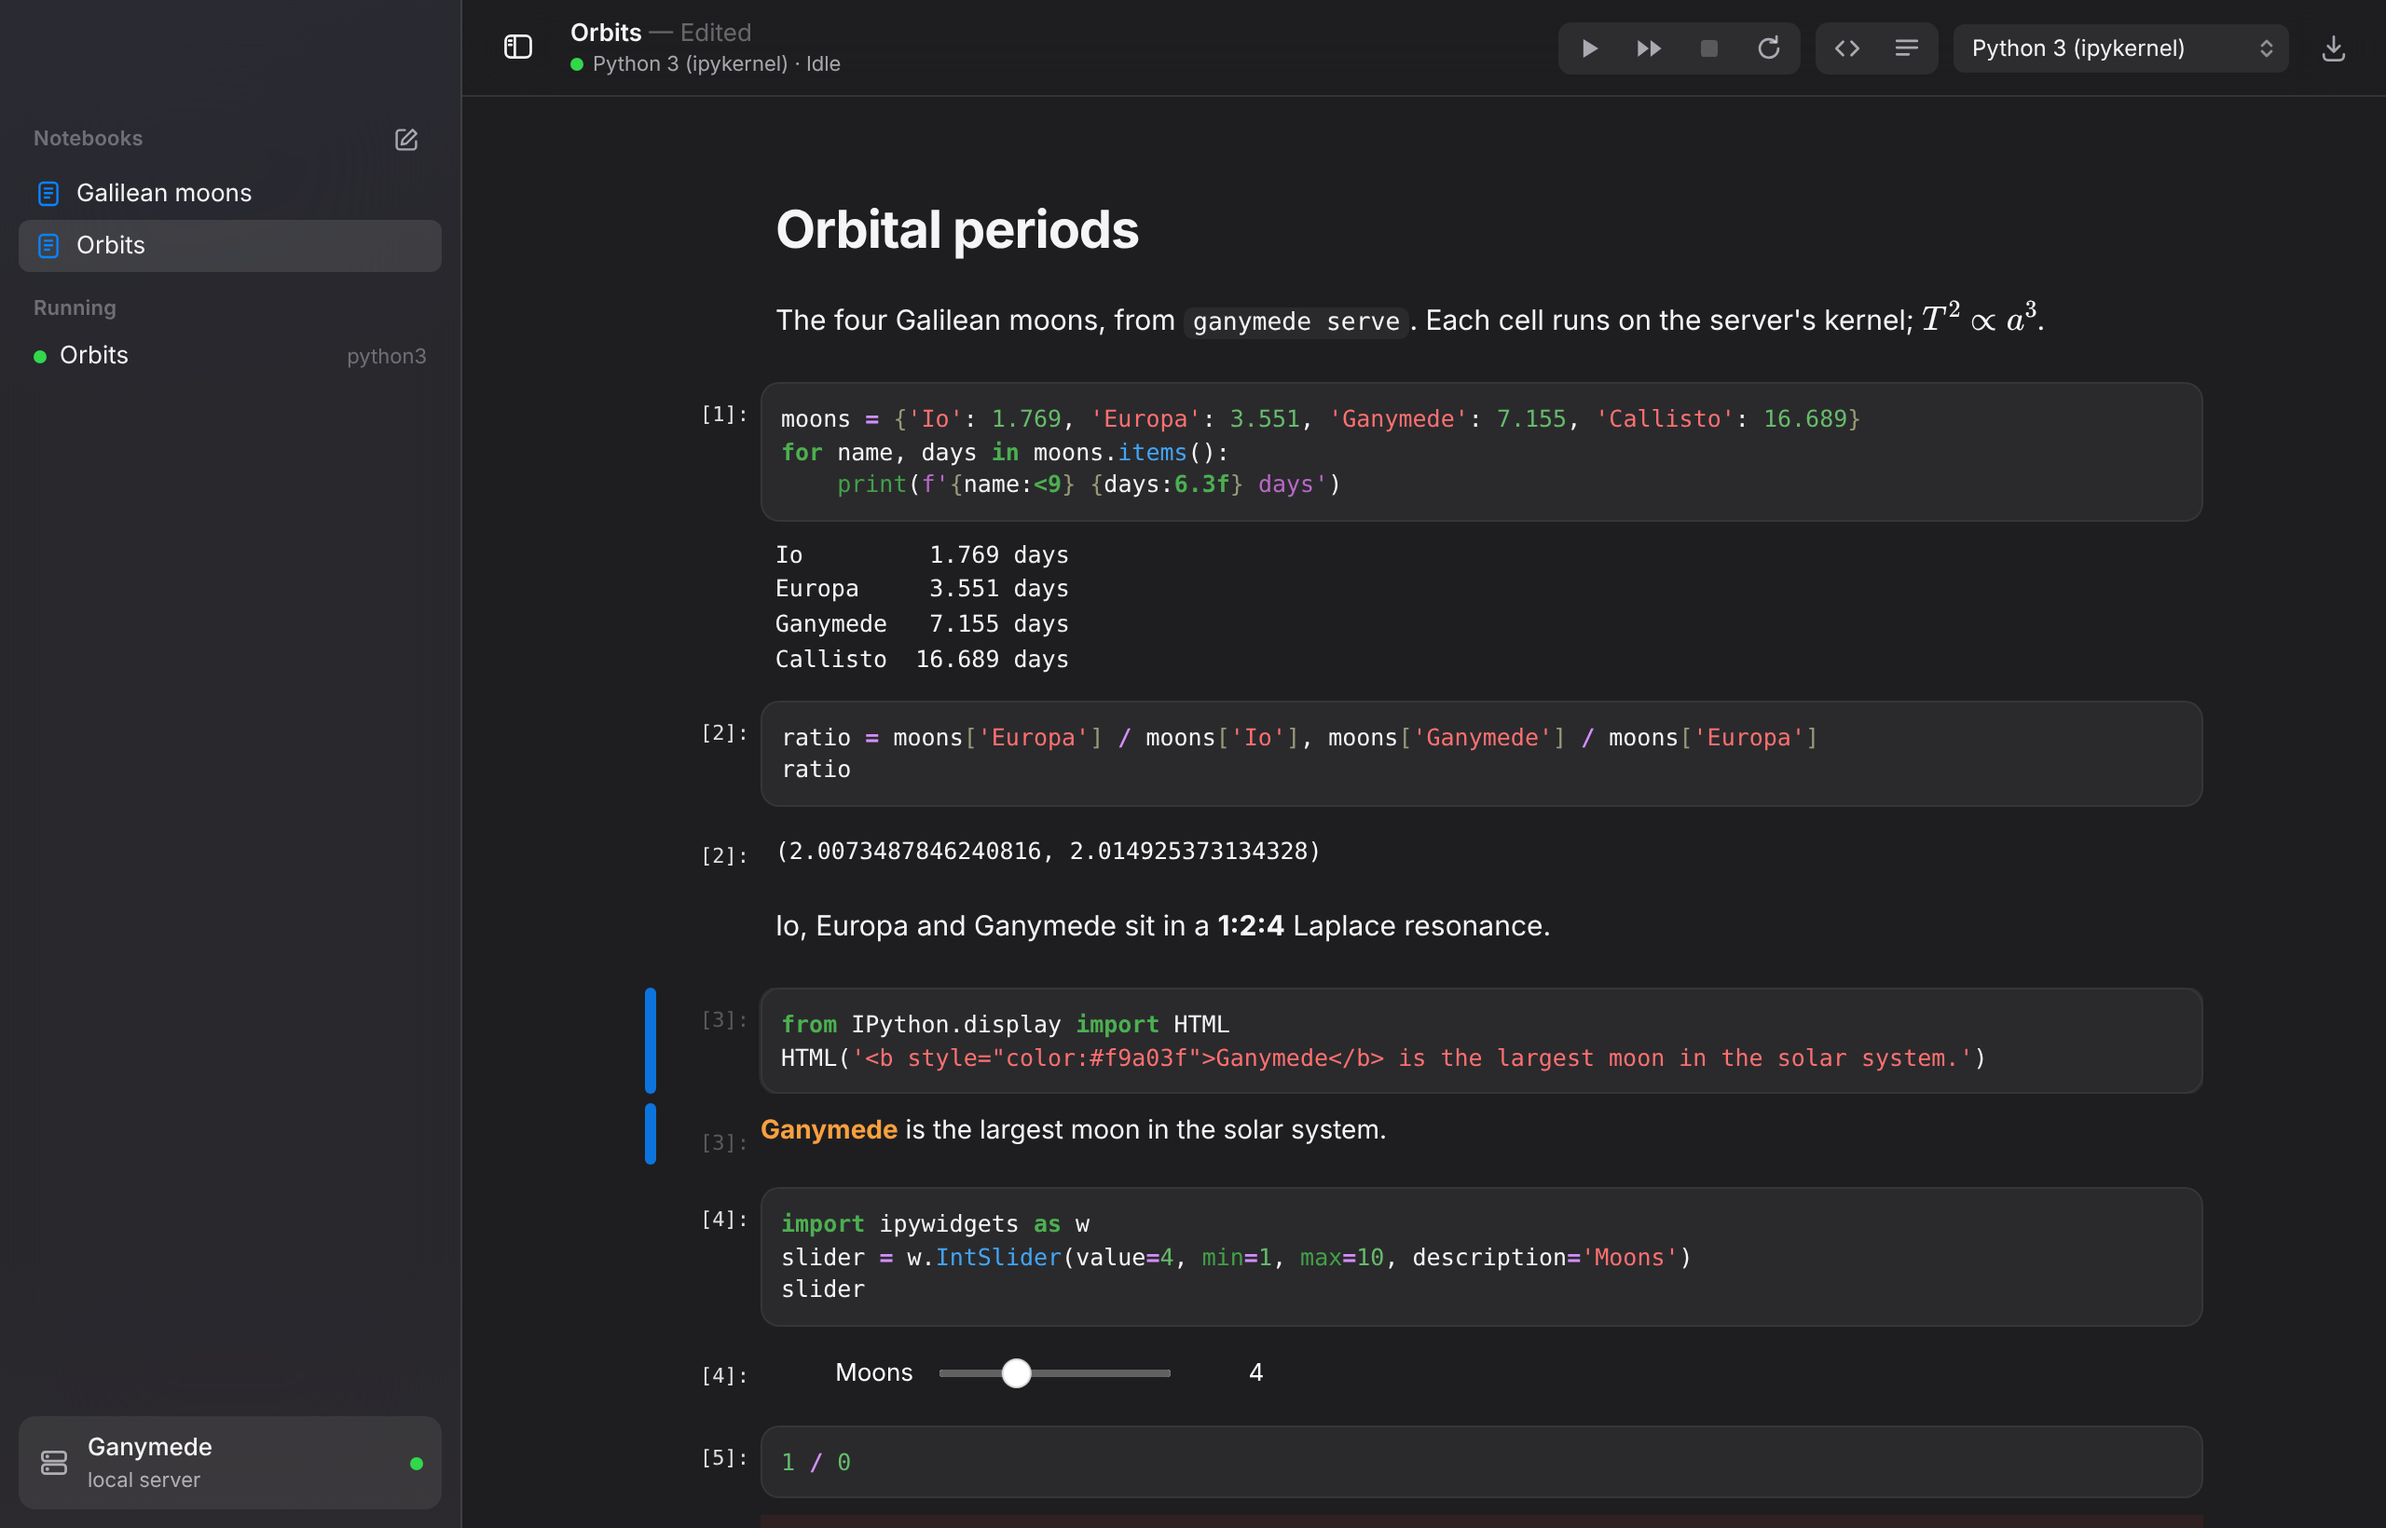
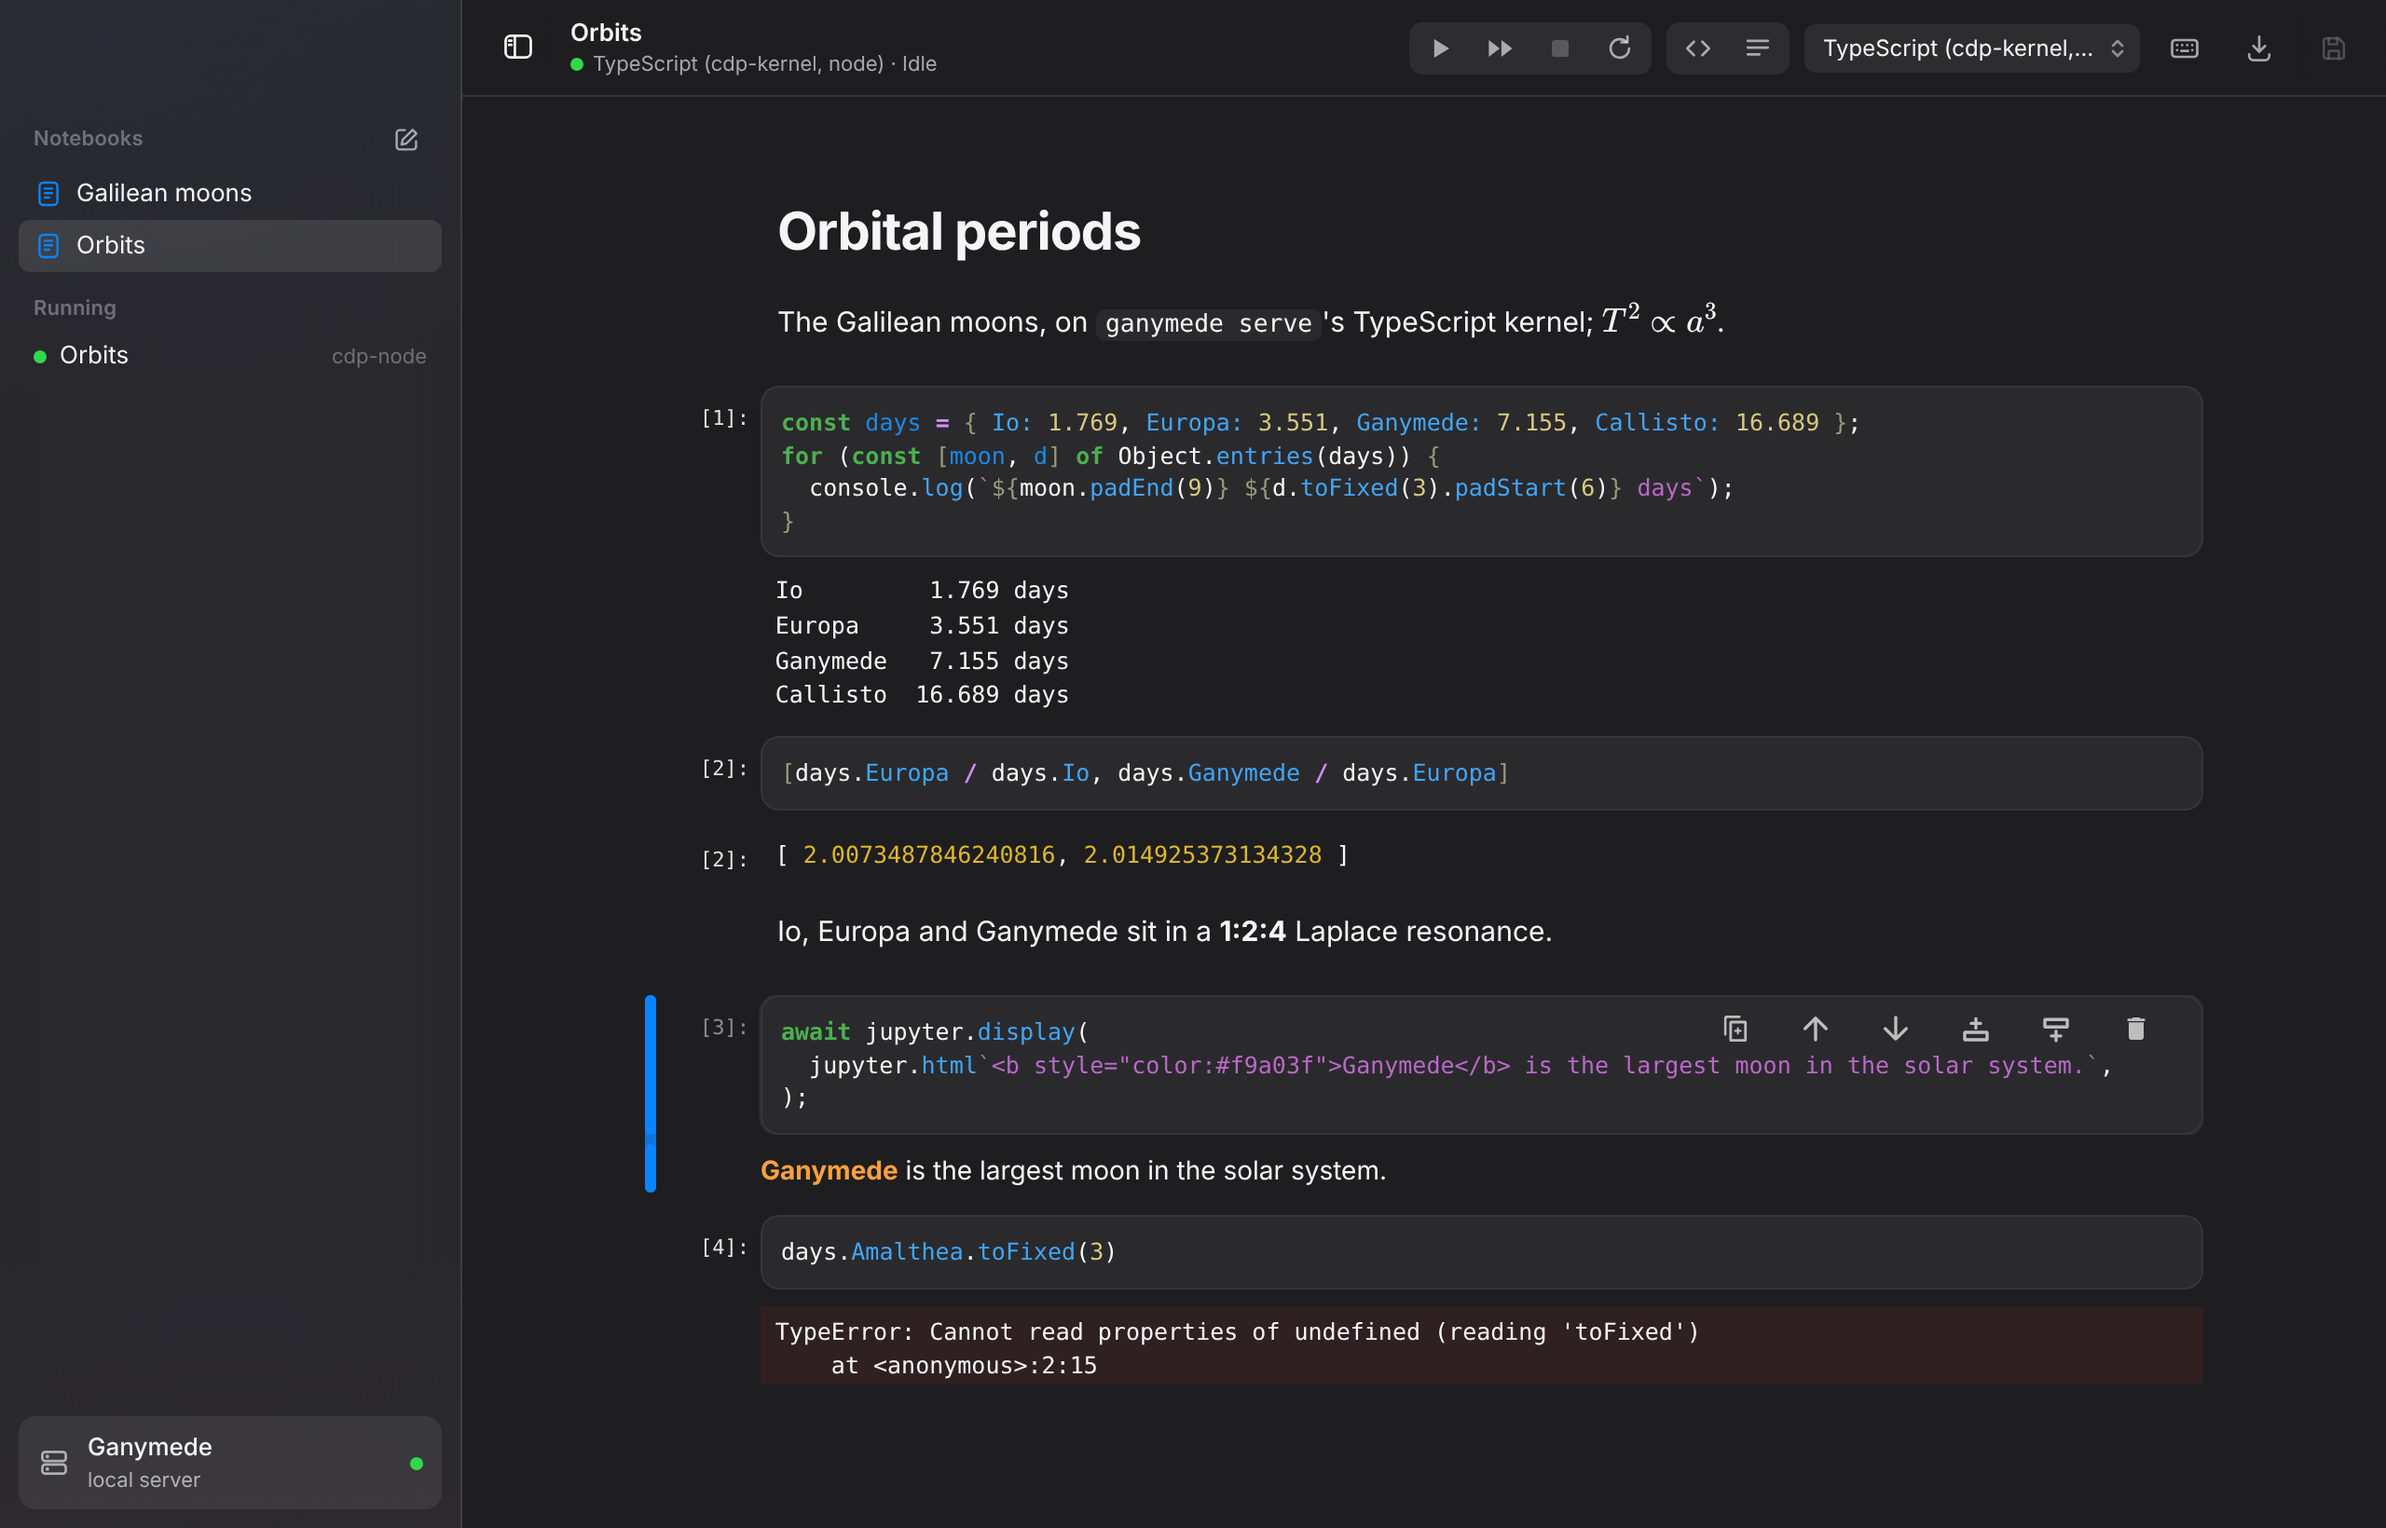
Take the README screenshots from the e2e run; fix dark-theme details (#84)
The screenshots predated the e2e spec. A new Orbits.ipynb fixture shows
stream, result, Markdown and math, HTML and a full error in one window on
cdp-kernel's TypeScript kernel; the spec restarts the kernel, saves before
the shot, and drops the unused empty frame. The browser-kernel shot shows
it ran in a Worker, is cropped, and has a dark twin. The README pairs
light and dark and captions each shot.

jupyter.css: brighter prompts in dark, a number color distinct from
keywords, and one active-cell bar instead of two. "This browser" labels
say kernels run in the page with no server.

Closes #84, #85, #86, #87.

Claude-Session: https://claude.ai/code/session_01Y1S7UgDoQEjiwBfUfoGNMt

diff --git a/e2e/screenshots.spec.ts b/e2e/screenshots.spec.ts
@@ -1,9 +1,13 @@
 // Screenshots of the app on Ganymede in light and dark, saved under
 // test-results/screenshots (CI uploads them). They are the README's
-// screenshots/ images: copy them there to refresh it.
+// screenshots/ images: copy them there to refresh it. Orbits.ipynb is
+// written for them: stream, result, Markdown with math, HTML, and an error,
+// all in one 820-pixel-high window.
 import { expect, test } from '@playwright/test';
-import { FIXTURE, TOKEN } from './env';
-import { notebookName, openNotebook, outputs, screenshot, sidebarItem } from './helpers';
+import { TOKEN } from './env';
+import { openNotebook, outputs, screenshot, waitForIdle } from './helpers';
+
+const SHOWCASE = 'Orbits.ipynb';
 
 test.use({ deviceScaleFactor: 2 });
 
@@ -11,13 +15,17 @@ for (const colorScheme of ['light', 'dark'] as const) {
   test(`screenshots (${colorScheme})`, async ({ page }, testInfo) => {
     await page.emulateMedia({ colorScheme });
     await page.goto(`/?token=${TOKEN}`);
-    await expect(sidebarItem(page, notebookName(FIXTURE))).toBeVisible();
-    await screenshot(page, testInfo, `empty-${colorScheme}`);
-
-    await openNotebook(page, FIXTURE);
+    await openNotebook(page, SHOWCASE);
+    // A fresh kernel, so execution counts start at 1 in both shots.
+    await page.getByRole('button', { name: 'Restart Kernel' }).click();
+    await waitForIdle(page);
     await page.getByRole('button', { name: 'Run All' }).click();
-    await expect(page.locator('[data-mime-type="text/html"] table')).toBeVisible();
     await expect(outputs(page).filter({ hasText: 'largest moon' })).toBeVisible();
+    await expect(outputs(page).filter({ hasText: 'TypeError' })).toBeVisible();
+    // Saved, so the title doesn't say "Edited"; the HTML cell selected.
+    await page.getByRole('button', { name: /^Save/ }).click();
+    await expect(page.getByText('— Edited')).toHaveCount(0);
+    await page.locator('.jp-Cell').nth(4).locator('.jp-InputPrompt').click();
     await screenshot(page, testInfo, `notebook-${colorScheme}`);
   });
 }

diff --git a/src/styles/jupyter.css b/src/styles/jupyter.css
@@ -30,6 +30,10 @@
   --jp-ui-font-color1: var(--text);
   --jp-content-link-color: var(--accent);
 
+  /* JupyterLab colors numbers and keywords the same green; numbers take
+   * Xcode's colors instead. */
+  --jp-mirror-editor-number-color: #1c00cf;
+
   --cell-bg: #f5f5f7;
   --cell-border: rgba(0, 0, 0, 0.06);
 }
@@ -38,6 +42,10 @@
   .notebook-page {
     --cell-bg: #2a2a2d;
     --cell-border: rgba(255, 255, 255, 0.06);
+    /* --text-3 is too faint for prompts on the dark background. */
+    --jp-cell-inprompt-font-color: var(--text-2);
+    --jp-cell-outprompt-font-color: var(--text-2);
+    --jp-mirror-editor-number-color: #d9c97c;
   }
 }
 
@@ -70,6 +78,7 @@
 }
 
 .notebook-page .jp-Cell {
+  position: relative;
   padding: 6px 0 !important;
   background: transparent;
 }
@@ -106,14 +115,27 @@
   background: transparent !important;
 }
 
-/* The active-cell marker: a thin accent bar, like a selection in Finder. */
+/*
+ * The active-cell marker: one thin accent bar down the whole cell, like a
+ * selection in Finder. JupyterLab draws it on the input and output
+ * collapsers separately, which reads as two selections, so the cell draws
+ * it instead.
+ */
 .notebook-page .jp-Collapser {
   border-radius: 3px;
 }
 
-.notebook-page .jp-Cell.jp-mod-active .jp-Collapser {
+.notebook-page .jp-Cell.jp-mod-active::before {
+  content: '';
+  position: absolute;
+  top: 6px;
+  bottom: 6px;
+  left: 0;
+  width: var(--jp-cell-collapser-width);
+  border-radius: 3px;
   background: var(--accent);
   opacity: 0.85;
+  pointer-events: none;
 }
 
 .notebook-page .jp-Cell .jp-Collapser:hover {

diff --git a/e2e/browser-kernel.spec.ts b/e2e/browser-kernel.spec.ts
@@ -4,6 +4,8 @@
 import { expect, test } from '@playwright/test';
 import { outputs, screenshot, waitForIdle } from './helpers';
 
+test.use({ deviceScaleFactor: 2 });
+
 for (const colorScheme of ['light', 'dark'] as const) {
   test(`runs JavaScript in a Web Worker (${colorScheme})`, async ({ page }, testInfo) => {
     await page.emulateMedia({ colorScheme });
@@ -28,7 +30,19 @@ for (const colorScheme of ['light', 'dark'] as const) {
     );
     await page.keyboard.press('Shift+Enter');
     await expect(outputs(page).filter({ hasText: 'GANYMEDE' })).toBeVisible({ timeout: 60_000 });
+    // Where it ran: no DOM, a Worker's global scope.
+    await page.locator('.jp-Cell .cm-content').nth(1).click();
+    await page.keyboard.type('[typeof document, self.constructor.name]');
+    await page.keyboard.press('Shift+Enter');
+    await expect(outputs(page).filter({ hasText: 'DedicatedWorkerGlobalScope' })).toBeVisible({
+      timeout: 60_000,
+    });
 
+    // Saved, out of edit mode, and cropped to the content for the README.
+    await page.keyboard.press('Escape');
+    await page.getByRole('button', { name: /^Save/ }).click();
+    await expect(page.getByText('— Edited')).toHaveCount(0);
+    await page.setViewportSize({ width: 1280, height: 520 });
     await screenshot(page, testInfo, `browser-kernel-${colorScheme}`);
   });
 }

diff --git a/src/components/ConnectSheet.tsx b/src/components/ConnectSheet.tsx
@@ -66,7 +66,9 @@ export function ConnectSheet({
           >
             <BrowserIcon width={28} height={28} />
             <span className="choice-title">This browser</span>
-            <span className="choice-detail">JavaScript in a Web Worker; works offline.</span>
+            <span className="choice-detail">
+              TypeScript or JavaScript, no server; works offline.
+            </span>
           </button>
         </div>
 

diff --git a/src/lib/backends.test.ts b/src/lib/backends.test.ts
@@ -162,7 +162,7 @@ describe('connect: browser', () => {
     );
     const backend = keep(await connect({ kind: 'browser' }));
     expect(backend.label).toBe('This browser');
-    expect(backend.detail).toBe('JavaScript in a Web Worker');
+    expect(backend.detail).toBe('Kernels in this page, no server');
     services = backend.services;
   });
 

diff --git a/src/test/fakes.ts b/src/test/fakes.ts
@@ -86,7 +86,7 @@ export function fakeBackend(
   return {
     config,
     label: config.kind === 'browser' ? 'This browser' : 'Ganymede',
-    detail: config.kind === 'browser' ? 'JavaScript in a Web Worker' : 'local server',
+    detail: config.kind === 'browser' ? 'Kernels in this page, no server' : 'local server',
     services,
   };
 }

diff --git a/src/lib/backends.ts b/src/lib/backends.ts
@@ -72,7 +72,7 @@ export async function connect(config: BackendConfig): Promise<Backend> {
   return {
     config,
     label: 'This browser',
-    detail: 'JavaScript in a Web Worker',
+    detail: 'Kernels in this page, no server',
     services,
   };
 }

diff --git a/README.md b/README.md
@@ -13,11 +13,18 @@ its history.
 
 [![CI](https://github.com/tlockney/ganymede-ui/actions/workflows/ci.yml/badge.svg)](https://github.com/tlockney/ganymede-ui/actions/workflows/ci.yml)
 
-![Notebook on Ganymede, light](screenshots/notebook-light.png)
+| Light                                                                                                                                                                                                                                          | Dark                                                                        |
+| ---------------------------------------------------------------------------------------------------------------------------------------------------------------------------------------------------------------------------------------------- | --------------------------------------------------------------------------- |
+| ![A TypeScript notebook on ganymede serve, light: console output, an array result, Markdown with math, HTML output, and a TypeError with its stack trace. The sidebar lists notebooks and the running kernel.](screenshots/notebook-light.png) | ![The same notebook in the dark appearance.](screenshots/notebook-dark.png) |
 
-| Dark                                   | In-browser kernel                                          |
-| -------------------------------------- | ---------------------------------------------------------- |
-| ![Dark](screenshots/notebook-dark.png) | ![Web Worker kernel](screenshots/browser-kernel-light.png) |
+_A notebook on `ganymede serve` running cdp-kernel's TypeScript kernel: stream, result, Markdown and math, HTML, and an error, saved._
+
+<picture>
+  <source media="(prefers-color-scheme: dark)" srcset="screenshots/browser-kernel-dark.png">
+  <img alt="The app connected to &quot;This browser&quot; with no server: a new notebook whose TypeScript cells ran in the page, the second showing typeof document is undefined and the global scope is DedicatedWorkerGlobalScope." src="screenshots/browser-kernel-light.png">
+</picture>
+
+_No server required: notebooks in the browser's storage, and the TypeScript kernel running in a Web Worker in the page._
 
 ## Run
 

diff --git a/docs/notes/2026-10-19-screenshots.md b/docs/notes/2026-10-19-screenshots.md
@@ -1,0 +1,24 @@
+## 2026-10-19, screenshots from the e2e run, dark-theme fixes (#84)
+
+From the docs review (#84, #85, #86, #87). The README's screenshots were
+older than the e2e screenshot spec: an ipykernel notebook taken by hand,
+with an error cell cut off at the bottom and "Edited" in the title. They
+now come from `npm run e2e` like its comment always said. A new fixture,
+`e2e/fixtures/Orbits.ipynb`, fits stream output, a result, Markdown with
+math, HTML and a full error in one 1280×820 window on cdp-kernel's
+TypeScript kernel (no Python in CI). The spec restarts the kernel so both
+shots count from 1, saves before the shot, and drops the unused empty-state
+frame. The browser-kernel shot runs a second cell showing it ran in a
+`DedicatedWorkerGlobalScope`, is cropped to 520 pixels, and has a dark
+twin; the README shows it with `<picture>` and captions every shot.
+
+Dark-theme fixes in `src/styles/jupyter.css`: prompts use `--text-2`
+instead of the 36% `--text-3`; numbers get their own color in both themes
+(JupyterLab colors them the same green as keywords); and the active cell
+gets one accent bar down the whole cell from a `::before` on `.jp-Cell`,
+instead of JupyterLab's separate input and output collapser bars. The
+"This browser" labels now say kernels run in the page with no server,
+instead of "JavaScript in a Web Worker" (the default kernel is TypeScript).
+
+Left as is: the green idle dot (green means ready across the shell, as in
+macOS), and window traffic lights, which a browser screenshot doesn't have.
